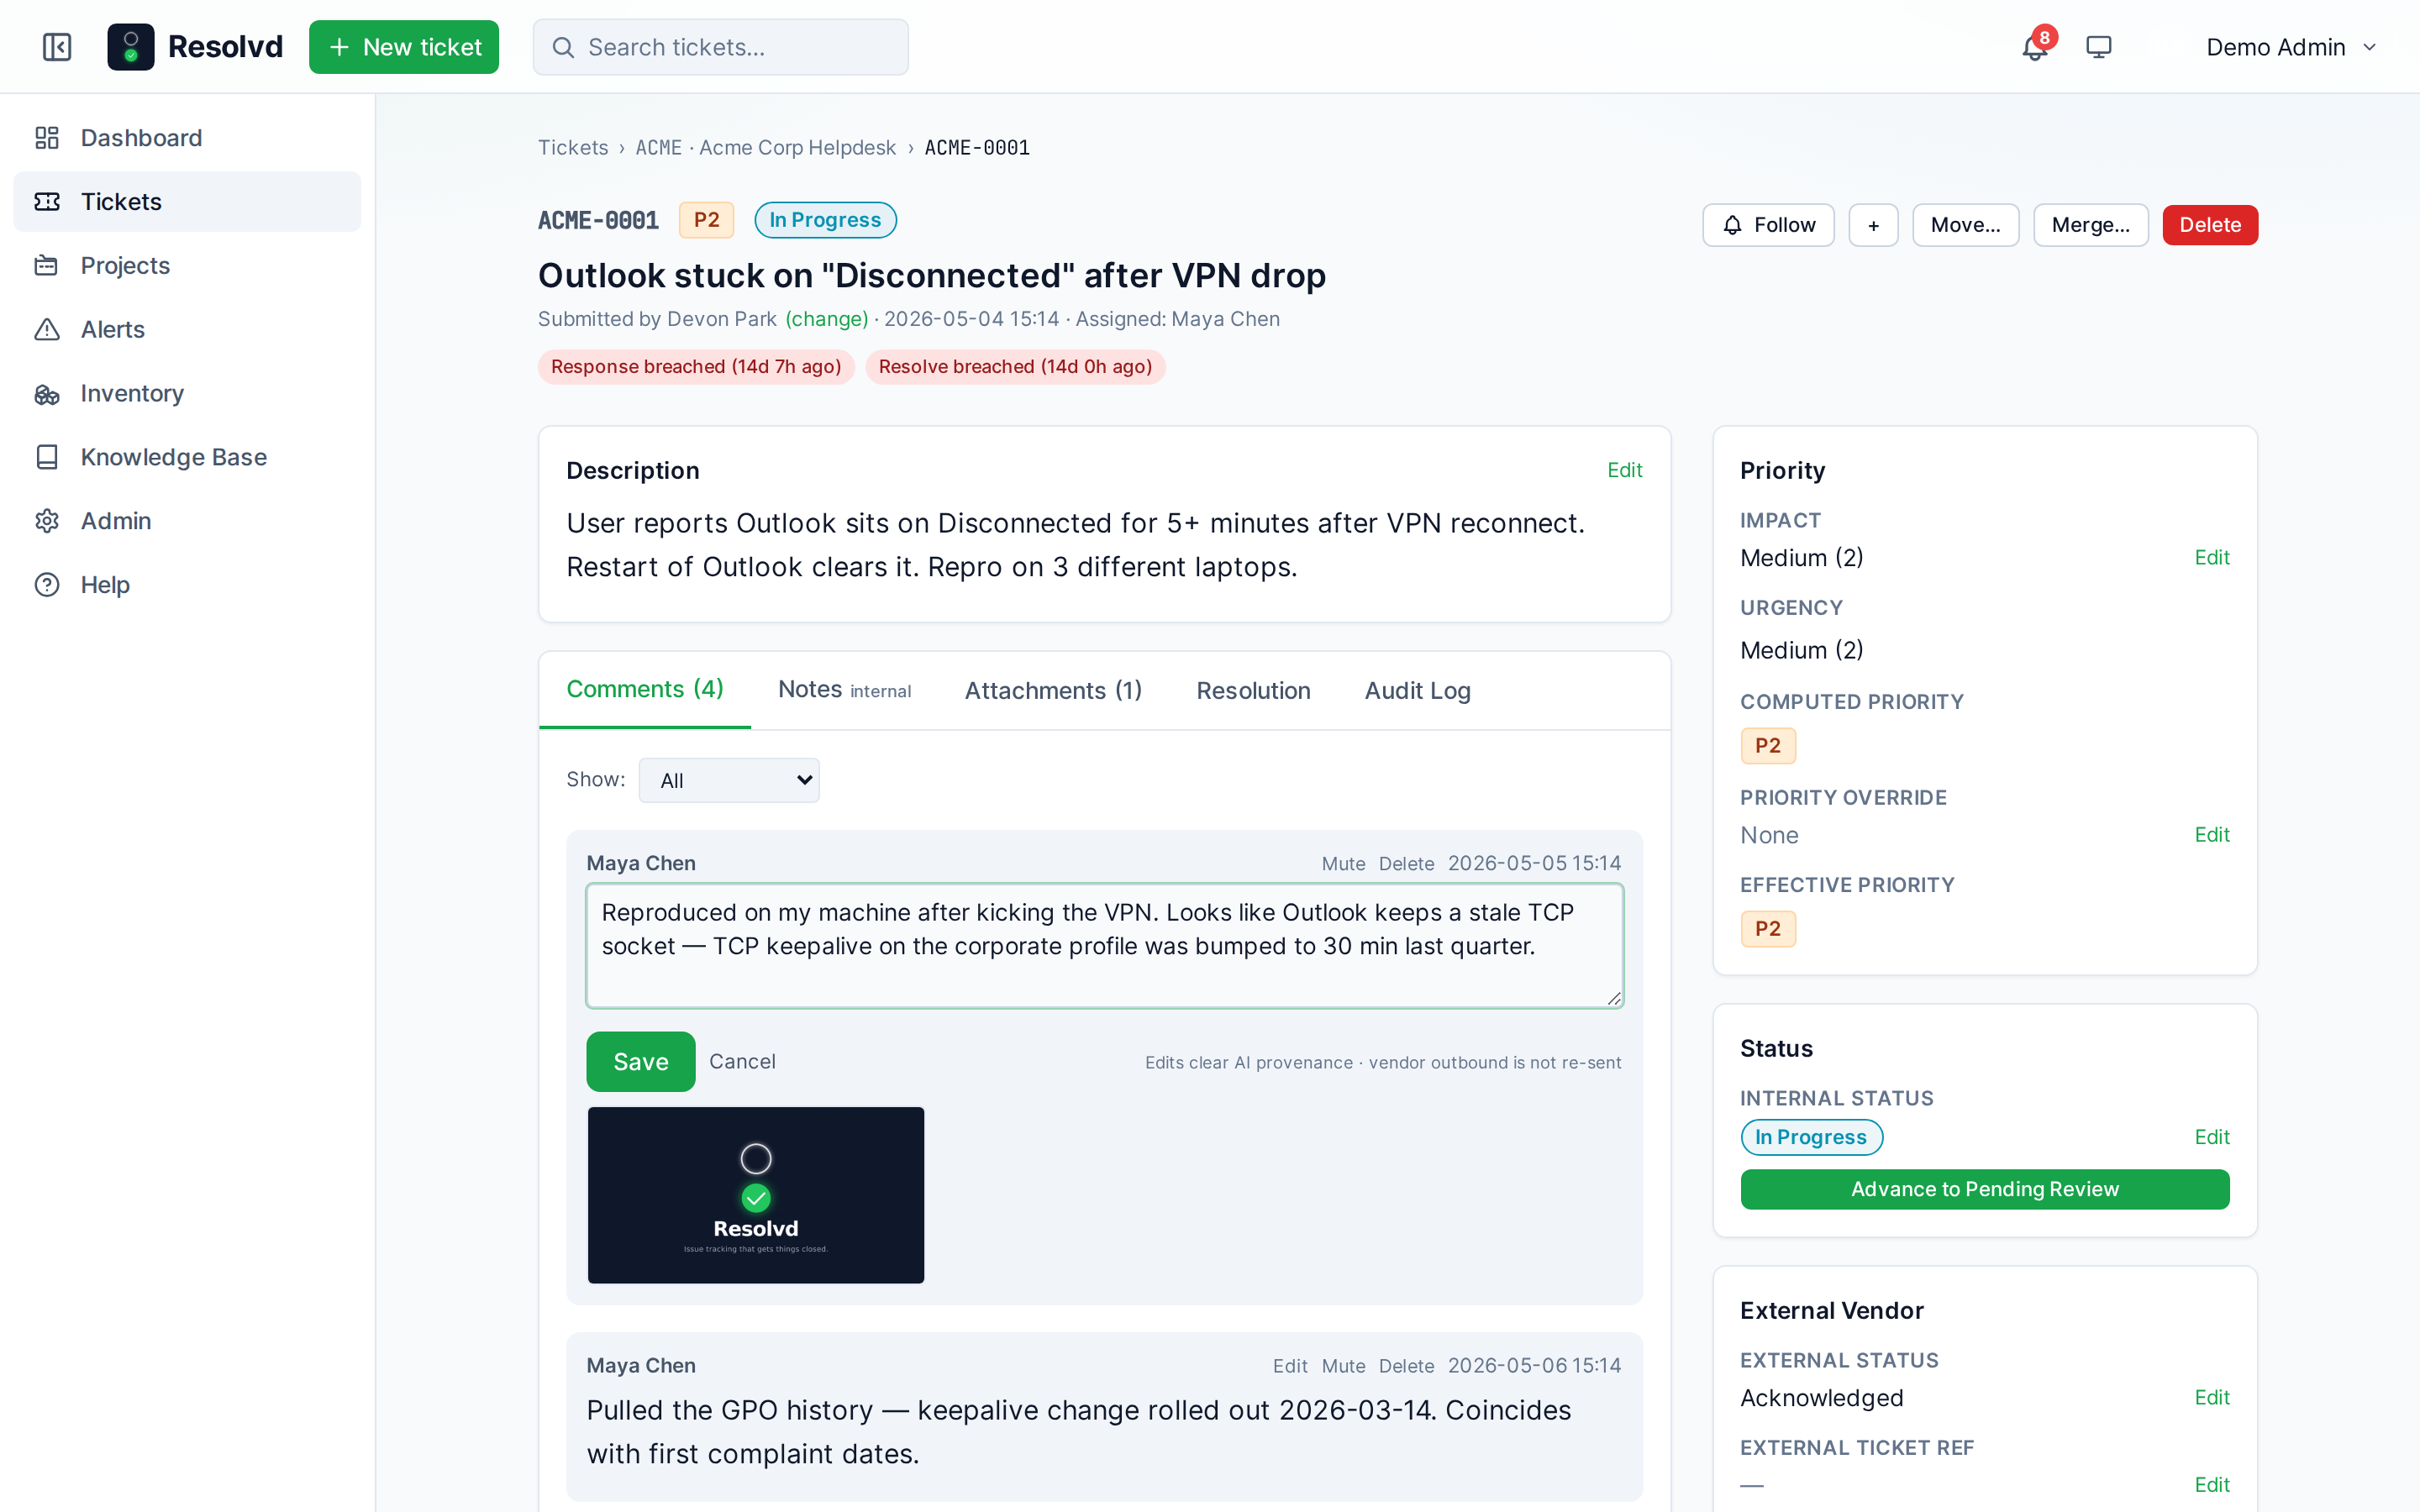
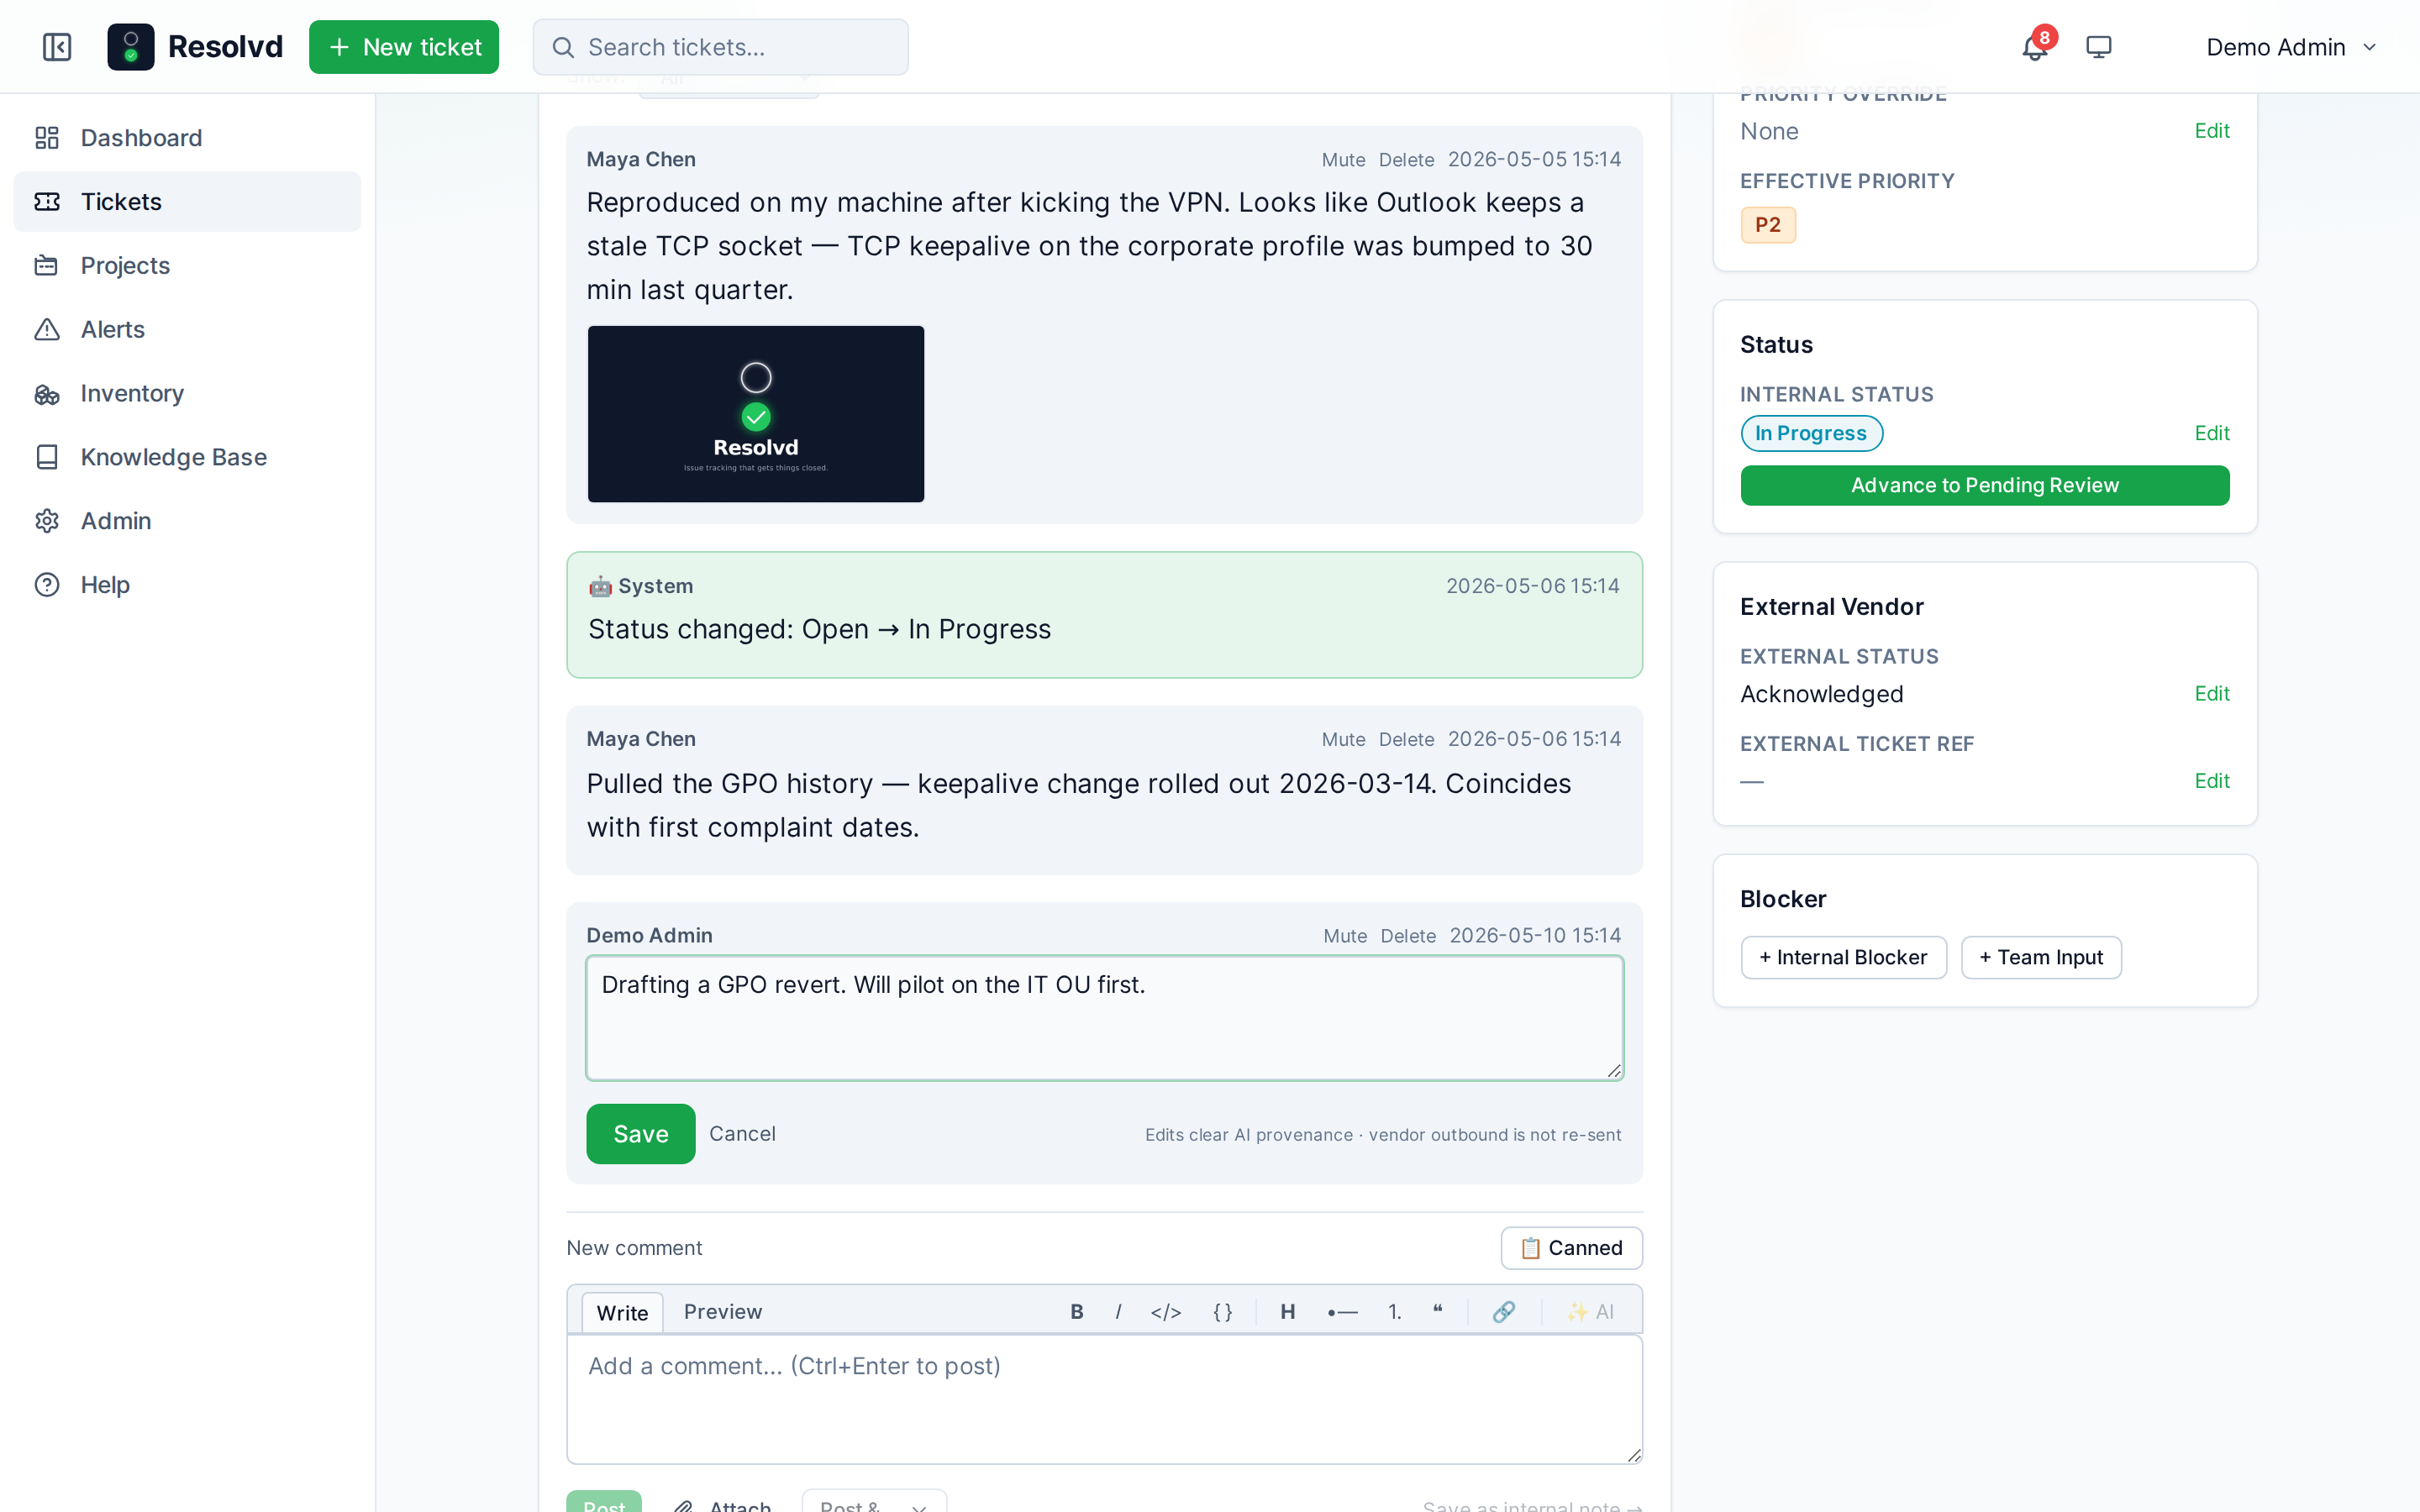
docs(help): v0.8.0 catch-up — AI ledger, auto-resume, refreshed shots
- Lifetime AI token ledger Feature under SectionAiAssist.
- Auto-resume on inbound reply Feature under Status & Fields.
- Refresh ticket-detail-comments, ticket-detail-image-lightbox, and
  ticket-detail-edit-comment PNGs against demo running v0.8.0 candidate
  code with seeded image attachment + member overrides.

diff --git a/frontend/src/pages/Help.jsx b/frontend/src/pages/Help.jsx
@@ -367,6 +367,7 @@ function SectionTicketDetail({ role }) {
         <Feature name="Priority override" roles={HANDLER} note="Manually pin priority regardless of computed score." />
         <Feature name="Assign ticket" roles={HANDLER} />
         <Feature name="Set blocker" roles={HANDLER} note="Block on another ticket or flag as awaiting team input." />
+        <Feature name="Auto-resume on inbound reply" roles="all" note="A ticket in an `awaiting_input` status automatically transitions to `in_progress` when any inbound email reply lands on it (vendor reply or matched inbound queue entry). Audited as status_change_auto." />
         <Feature name="Schedule follow-up reminder" roles={HANDLER} />
         <Feature name="Link asset (Inventory)" roles={HANDLER} note="Surfaces the asset hostname in place of an opaque id and feeds cross-project history on the asset detail page." />
         <Feature name="Resolution summary" roles={HANDLER} note="One-line summary captured at close time. Drives the 'Fix applied' ticket-list filter together with linked KB articles." />
@@ -616,6 +617,7 @@ function SectionAiAssist({ role }) {
         <Feature name="Project context glossary" roles="all" note="Admin-authored per-project markdown blob ships with rewrites in that project's tickets." />
         <Feature name="Usage disclosure badge" roles="all" note="Inline ✨ AI pill on AI-rewritten posts. Hover for details, click to copy." />
         <Feature name="Publish my AI usage" roles="all" note="Per-user opt-in to make own AI badge org-wide visible — for cost transparency when on personal keys." />
+        <Feature name="Lifetime AI token ledger" roles="all" note="Small 3-cell card on Account → Preferences → AI Assist showing total calls, input tokens, output tokens across your comments + tickets. Snapshot at apply time — edits / deletes don't subtract." />
         <Feature name="Admin org AI integration" roles={["Admin"]} note="Admin → Integrations → AI Assist. Configure org provider + lock + audience tier." />
       </div>
     </div>